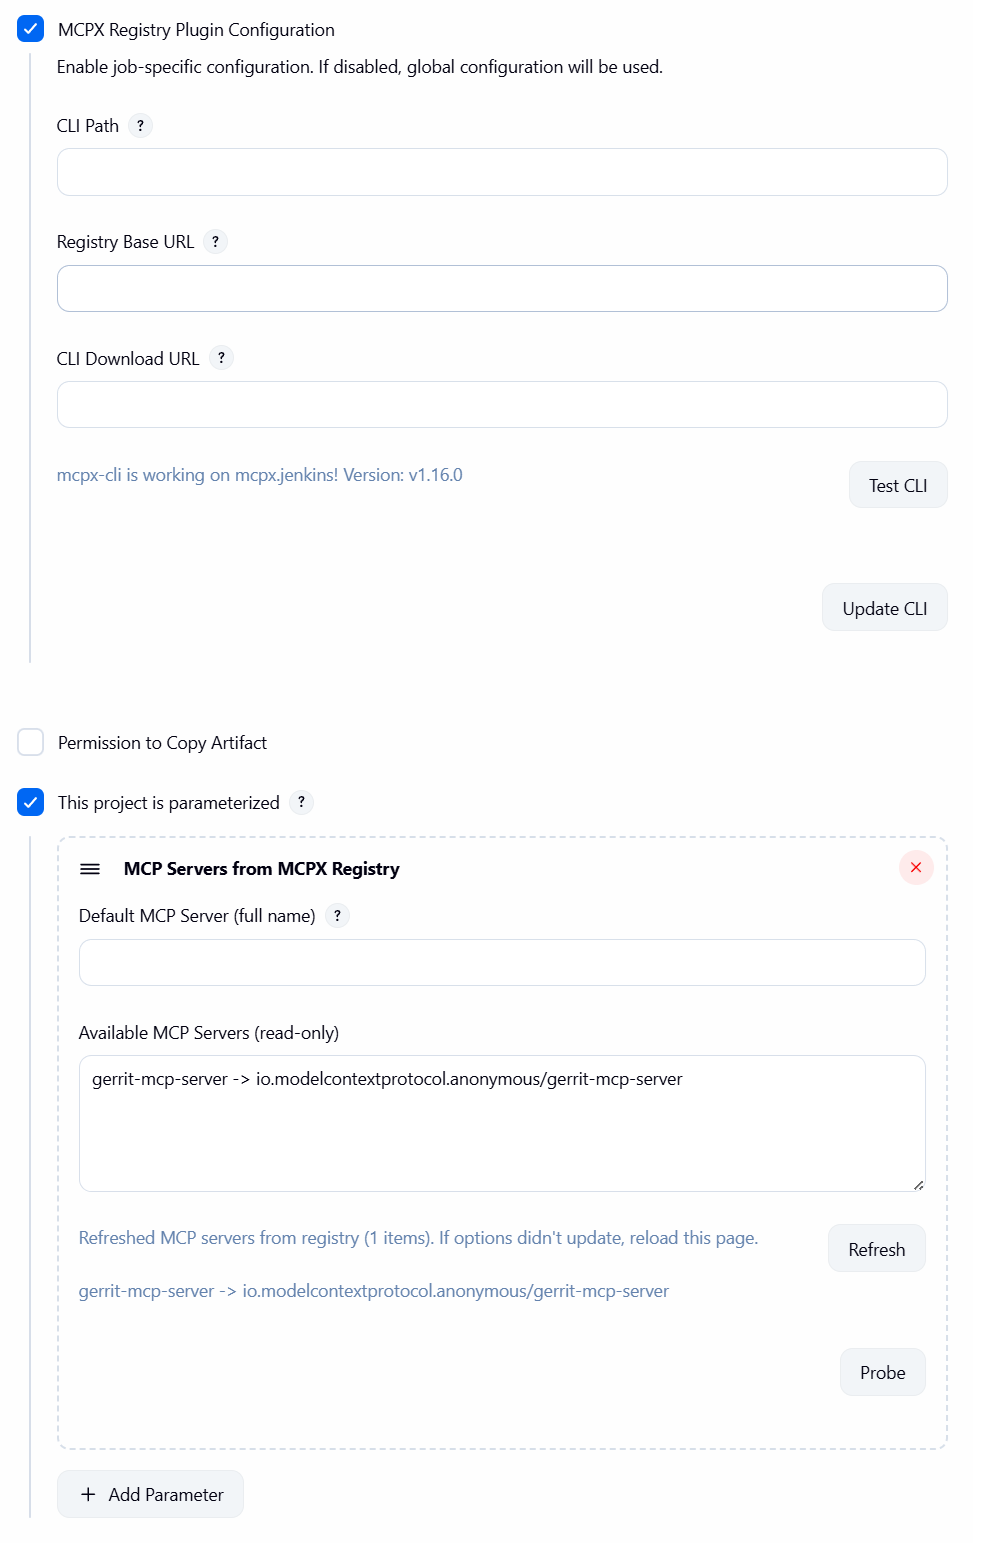
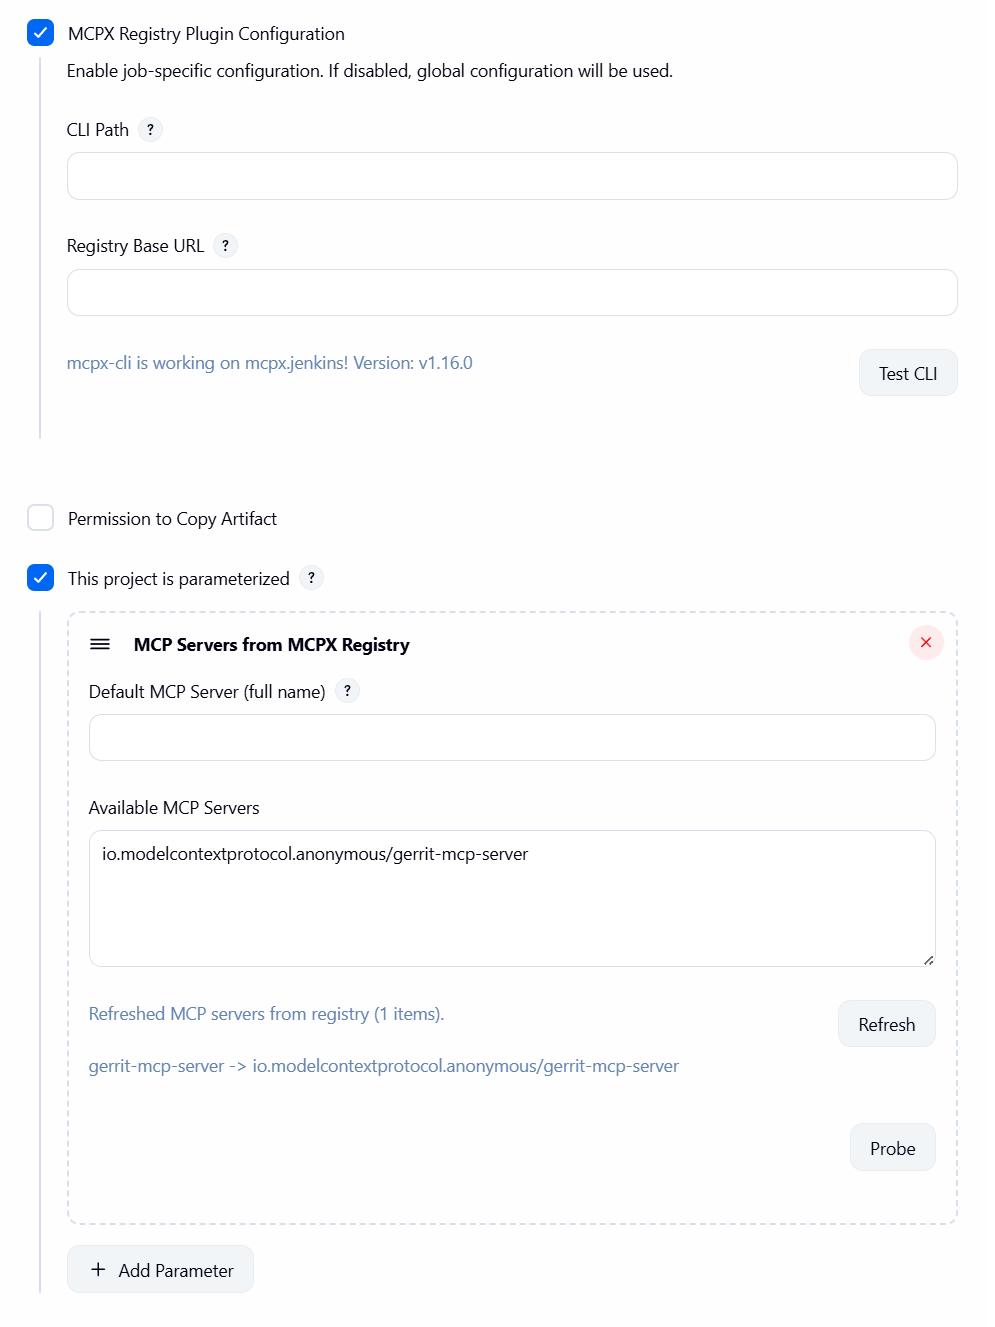
refactor(chore): simplify mcp servers ui, remove update cli, add help
- Refresh hint: remove reload note; now "Refreshed MCP servers from registry (n items)."
- Label: "Available MCP Servers (read-only)" -> "Available MCP Servers"
- Preview list: show only full identifiers (e.g., io.modelcontextprotocol...); remove "name -> value"
- Job config: remove "CLI Download URL" field and "Update CLI" button
- Help: add help pages for job/global CLI Path, job/global Registry Base URL, and param Default MCP Server
- Docs: update README to reflect UI/behavior changes

diff --git a/src/main/resources/io/modelcontextprotocol/jenkins/help/job/cliPath.html b/src/main/resources/io/modelcontextprotocol/jenkins/help/job/cliPath.html
@@ -1,0 +1,10 @@
+<div>
+  <p>
+    Absolute path to the <code>mcpx-cli</code> binary on the node where actions will run.
+  </p>
+  <ul>
+    <li>Supports <code>~/</code> expansion to the Jenkins process user home on the target node.</li>
+    <li>If this field is left empty at the job level, the Global “CLI Path” will be used.</li>
+    <li>Ensure the binary exists on the controller and/or any labeled agents you intend to use.</li>
+  </ul>
+</div>

diff --git a/src/main/resources/io/modelcontextprotocol/jenkins/help/global/cliPath.html b/src/main/resources/io/modelcontextprotocol/jenkins/help/global/cliPath.html
@@ -1,0 +1,10 @@
+<div>
+  <p>
+    Absolute path to the <code>mcpx-cli</code> binary for Global configuration.
+  </p>
+  <ul>
+    <li>Used as the default for jobs that do not specify a job-level CLI Path.</li>
+    <li>Supports <code>~/</code> expansion to the Jenkins controller user home.</li>
+    <li>Make sure the path is valid on the controller and/or agents where commands will run.</li>
+  </ul>
+</div>

diff --git a/src/main/resources/io/modelcontextprotocol/jenkins/help/param/defaultServer.html b/src/main/resources/io/modelcontextprotocol/jenkins/help/param/defaultServer.html
@@ -1,0 +1,9 @@
+<div>
+  <p>
+    Optional default value for the MCP server parameter.
+  </p>
+  <ul>
+    <li>Use the full server identifier (e.g., <code>io.modelcontextprotocol.anonymous/gerrit-mcp-server</code>).</li>
+    <li>If the parameter is left empty when triggering a build, this default will be used.</li>
+  </ul>
+</div>

diff --git a/src/main/resources/io/modelcontextprotocol/jenkins/help/global/registryBaseUrl.html b/src/main/resources/io/modelcontextprotocol/jenkins/help/global/registryBaseUrl.html
@@ -1,0 +1,9 @@
+<div>
+  <p>
+    Base URL of the MCPX Registry used globally for listing MCP servers.
+  </p>
+  <ul>
+    <li>Example: <code>https://registry.modelcontextprotocol.io</code></li>
+    <li>Jobs can override this with a job-level Registry Base URL if needed.</li>
+  </ul>
+</div>

diff --git a/src/main/resources/io/modelcontextprotocol/jenkins/help/job/registryBaseUrl.html b/src/main/resources/io/modelcontextprotocol/jenkins/help/job/registryBaseUrl.html
@@ -1,0 +1,9 @@
+<div>
+  <p>
+    Base URL of the MCPX Registry to query for MCP servers.
+  </p>
+  <ul>
+    <li>Example: <code>https://registry.modelcontextprotocol.io</code></li>
+    <li>If left empty at the job level, the Global “Registry Base URL” is used.</li>
+  </ul>
+</div>

diff --git a/src/main/java/io/modelcontextprotocol/jenkins/McpxJobProperty.java b/src/main/java/io/modelcontextprotocol/jenkins/McpxJobProperty.java
@@ -19,14 +19,12 @@ import javax.annotation.Nonnull;
 public class McpxJobProperty extends JobProperty<AbstractProject<?, ?>> {
     private final String cliPath;
     private final String registryBaseUrl;
-    private final String cliDownloadUrl;
     private final String selectedServer;
 
     @DataBoundConstructor
-    public McpxJobProperty(String cliPath, String registryBaseUrl, String cliDownloadUrl, String selectedServer) {
+    public McpxJobProperty(String cliPath, String registryBaseUrl, String selectedServer) {
         this.cliPath = Util.fixEmptyAndTrim(cliPath);
         this.registryBaseUrl = Util.fixEmptyAndTrim(registryBaseUrl);
-        this.cliDownloadUrl = Util.fixEmptyAndTrim(cliDownloadUrl);
         this.selectedServer = Util.fixEmptyAndTrim(selectedServer);
     }
 
@@ -38,9 +36,7 @@ public class McpxJobProperty extends JobProperty<AbstractProject<?, ?>> {
         return registryBaseUrl;
     }
 
-    public String getCliDownloadUrl() {
-        return cliDownloadUrl;
-    }
+
 
     public String getSelectedServer() {
         return selectedServer != null ? selectedServer : "";
@@ -204,22 +200,6 @@ public class McpxJobProperty extends JobProperty<AbstractProject<?, ?>> {
             }
         }
 
-        @POST
-        public FormValidation doUpdateCli(@QueryParameter String cliPath, @QueryParameter String cliDownloadUrl) {
-            try {
-                String path = Util.fixEmptyAndTrim(cliPath);
-                String url = Util.fixEmptyAndTrim(cliDownloadUrl);
-                if (url == null || url.isEmpty()) {
-                    return FormValidation.error("CLI Download URL is required to update mcpx-cli.");
-                }
 
-                McpxCliInstaller installer = new McpxCliInstaller();
-                installer.downloadAndInstall(url, path, null, null);
-
-                return FormValidation.ok("mcpx-cli updated successfully!");
-            } catch (Exception e) {
-                return FormValidation.error("Failed to update mcpx-cli: " + e.getMessage());
-            }
-        }
     }
 }

diff --git a/src/main/java/io/modelcontextprotocol/jenkins/parameters/McpxServerParameterDefinition.java b/src/main/java/io/modelcontextprotocol/jenkins/parameters/McpxServerParameterDefinition.java
@@ -120,7 +120,7 @@ public class McpxServerParameterDefinition extends SimpleParameterDefinition {
                         list.append(opt.name).append(" -> ").append(opt.value);
                     }
                 }
-                String msg = "Refreshed MCP servers from registry (" + count + " items). If options didn't update, reload this page.";
+                String msg = "Refreshed MCP servers from registry (" + count + " items).";
                 if (count > 0) msg += "\n\n" + list.toString();
                 return FormValidation.ok(msg);
             } catch (Exception e) {
@@ -209,7 +209,8 @@ public class McpxServerParameterDefinition extends SimpleParameterDefinition {
                 for (hudson.util.ListBoxModel.Option o : model) {
                     if (o != null && o.value != null && !o.value.isEmpty()) {
                         if (sb.length() > 0) sb.append('\n');
-                        sb.append(o.name).append(" -> ").append(o.value);
+                        // Show only the full server identifier (value), without the display name
+                        sb.append(o.value);
                     }
                 }
                 if (sb.length() == 0) {

diff --git a/README.md b/README.md
@@ -20,7 +20,7 @@ A Jenkins plugin that adds a build parameter to list MCP servers from an MCPX Re
 
 - Global configuration for registry base URL
 - Parameterized job input to select an MCP server from the registry
-- Free-form parameter input with a read-only preview of available servers (shortName -> fullName)
+- Free-form parameter input with a read-only preview of available servers (full names only)
 - Exposes selected values as environment variables: `$MCPX_SERVER_NAME` (from parameter), `$<PARAM_NAME>` (parameter name), and `$MCPX_SELECTED_SERVER` (from job-level selection)
 - mcpx-cli integration: configure CLI path
 - Job-level overrides: per-job CLI settings (path, registry URL)
@@ -56,10 +56,10 @@ Global (system) configuration example:
 
 5) Add a parameter to a job (recommended)
 - Configure job → This build is parameterized → Add parameter → “MCP Servers from MCPX Registry”
-- The parameter provides a textbox for the server value and a read-only preview list showing entries as `shortName -> fullName`.
+- The parameter provides a textbox for the server value and a read-only preview list showing entries as full identifiers.
 - Click “Refresh” to fetch the latest servers from the registry; if the preview doesn’t update immediately, reload the page. The plugin first tries the job’s labeled agent (Respect “Restrict where this project can be run”), then any online agent, and only as a last resort the controller.
 - Click “Probe” to see exactly where mcpx-cli ran (controller or which agent), which base URL and CLI path were used, and a snippet of the raw JSON output. Use this to diagnose missing preview data.
-- Paste or type the full server name into the textbox (e.g., `io.modelcontextprotocol.anonymous/gerrit-mcp-server`). The shortName is just for display in the preview.
+- Paste or type the full server name into the textbox (e.g., `io.modelcontextprotocol.anonymous/gerrit-mcp-server`).
 
 6) Use it in a build step
 
@@ -83,9 +83,7 @@ Jobs can override global CLI settings:
 2. Set any of:
   - CLI Path (e.g., a different version)
   - Registry Base URL (to use a different registry for this job)
-  - CLI Download URL (optional, required if using Update CLI)
   - Use the Test CLI button to verify the CLI works at the configured path
-  - Use the Update CLI button to download/install the CLI to the configured path (requires a download URL)
 
 Job configuration example:
 
